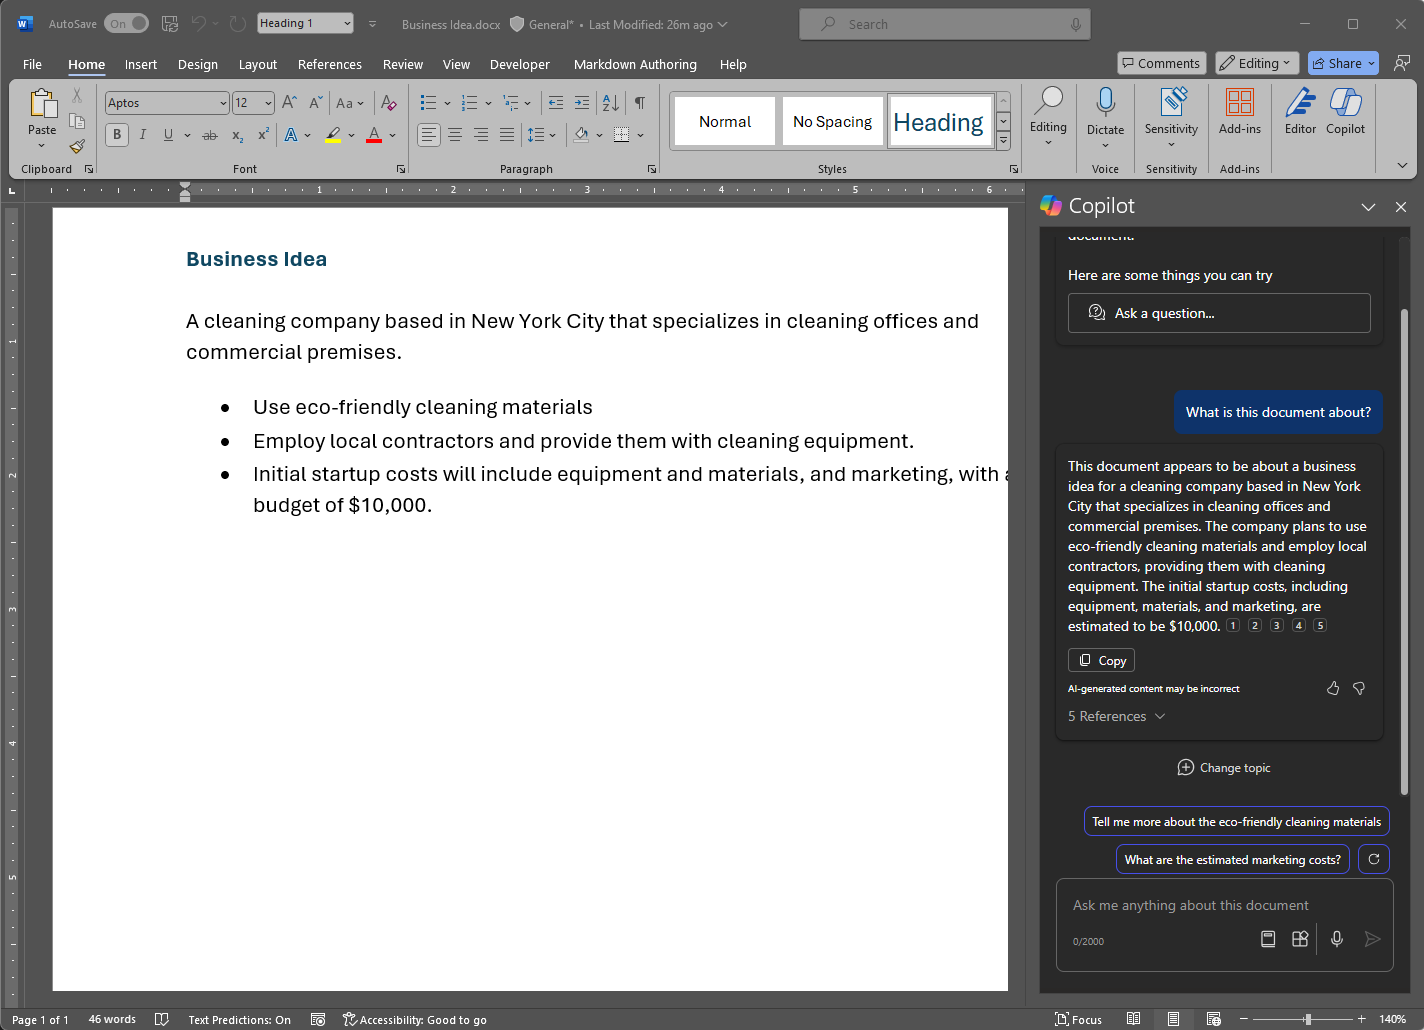
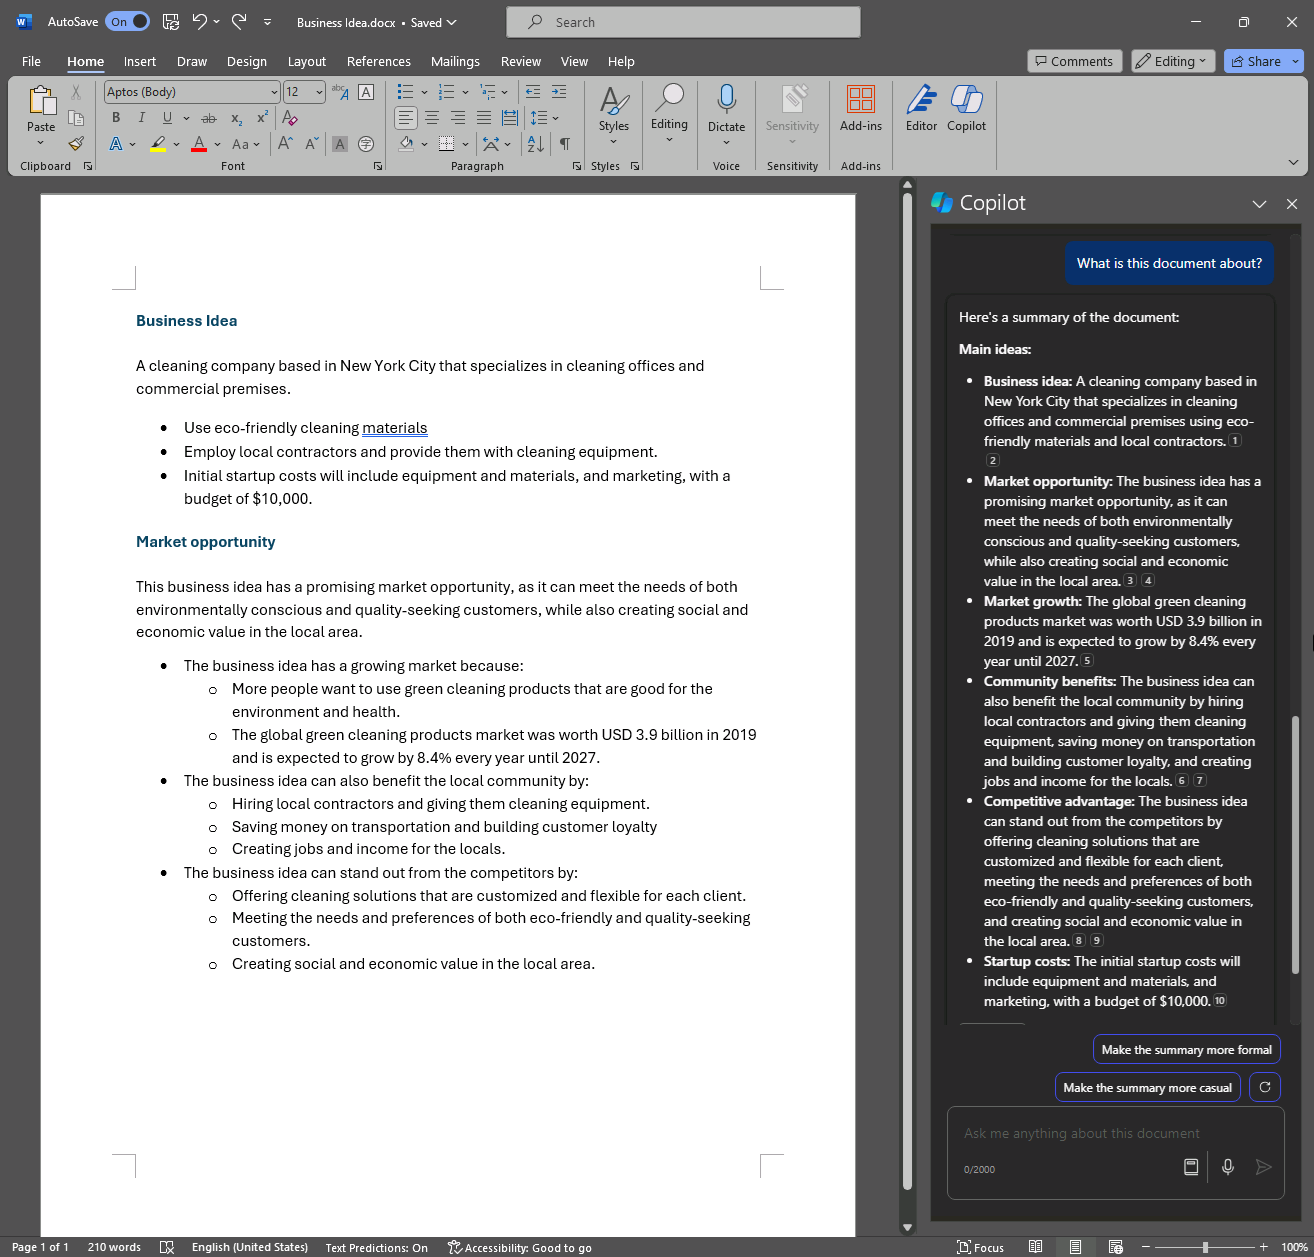
Test fixes

diff --git a/Instructions/Labs/12b-m365-copilot.md b/Instructions/Labs/12b-m365-copilot.md
@@ -14,8 +14,8 @@ This exercise should take approximately **40** minutes to complete.
 
 To start your exploration of generative AI, let's use Copilot for Word to examine an existing document and extract some insights from it.
 
-1. In Microsoft Edge, open the document [Business Idea.docx](https://github.com/MicrosoftLearning/mslearn-ai-fundamentals/raw/main/data/generative-ai/Business%20Idea.docx) from `https://github.com/MicrosoftLearning/mslearn-ai-fundamentals/raw/main/data/generative-ai/Business%20Idea.docx`. Then, when the document opens in Edge, select **Download** to save a copy on your PC.
-1. Navigate to where you saved the document, usually the **Downloads** folder in Windows, and drag or copy/paste **Business Idea.docx** to your OneDrive.
+1. In Microsoft Edge, open the document [Business Idea M365.docx](https://github.com/MicrosoftLearning/mslearn-ai-fundamentals/raw/main/data/generative-ai/Business%20Idea%20M365.docx) from `https://github.com/MicrosoftLearning/mslearn-ai-fundamentals/raw/main/data/generative-ai/Business%20Idea%20M365.docx`. Then, when the document opens in Edge, select **Download** to save a copy on your PC.
+1. Navigate to where you saved the document, usually the **Downloads** folder in Windows, and drag or copy/paste **Business Idea M365.docx** to your OneDrive.
 1. Open **Business Idea.docx** in **Microsoft Word** on your PC and review the document, which describes some high-level ideas for a cleaning business in New York City.
 1. Find and select the **Copilot** icon on the Word toolbar to open the Copilot pane, as shown here:
 
@@ -34,15 +34,6 @@ To start your exploration of generative AI, let's use Copilot for Word to examin
     > [!NOTE]
     > The specific response you receive may vary due to the nature of generative AI.
 
-1. Next, in the document, select the Copilot icon in the left margin and enter the following prompt in the popup:
-
-    ```
-    Add a new section on the potential market opportunity for this business idea.
-    ```
-
-    ![Screenshot of the Draft in Copilot feature in Word.](./media/generative-ai/copilot-draft-word.png)
-
-1. Review the response, which should provide some insights from the web that may be useful when planning a new cleaning business in New York. Keep it or give Copilot suggestions to rewrite the response.
 1. Return to the Copilot pane to ask Copilot the following question:
 
     ```
@@ -63,7 +54,7 @@ To start your exploration of generative AI, let's use Copilot for Word to examin
 
 Now that you've done some initial research, let's have Copilot help you develop a business plan for your cleaning company.
 
-1. With the **Business Idea.docx** document still open, bring up the Copilot pane and enter the following prompt:
+1. With the **Business Idea M365.docx** document still open, bring up the Copilot pane and enter the following prompt:
 
     ```
     Can you suggest a name for my cleaning business?
@@ -84,7 +75,10 @@ Now that you've done some initial research, let's have Copilot help you develop 
 
     ![Screenshot of a Word document with a Copilot-generated business plan.](./media/generative-ai/copilot-draft-business-plan-response.png)
 
-1. Close the Microsoft Word tab and return to the **Documents** folder in your OneDrive.
+1. Save the Word document and close it. 
+
+> [!NOTE]
+> If you weren't able to complete any of the steps due to time constraints or unforeseen issues, you can download a sample version of the business idea document with a business plan here: [Business Idea M365 FINAL.docx](https://github.com/MicrosoftLearning/mslearn-ai-fundamentals/raw/main/data/generative-ai/Business%20Idea%20M365%20FINAL.docx) from `https://github.com/MicrosoftLearning/mslearn-ai-fundamentals/raw/main/data/generative-ai/Business%20Idea%20M365%20FINAL.docx`.
 
 ## Use Copilot to create content for a presentation
 
@@ -94,7 +88,7 @@ With Copilot's help, you've created a draft of a business plan for the cleaning 
 
     ![Screenshot of creating a new blank presentation in PowerPoint.](./media/generative-ai/powerpoint-create-blank-presentation.png)
 
-1. Select the **Copilot button** in the **Home tab** of the ribbon, select **Create presentation from file...**, then choose **Business Idea.docx** from your OneDrive Documents folder and send the prompt to Copilot.
+1. Select the **Copilot button** in the **Home tab** of the ribbon, select **Create presentation from file...**, then choose **Business Idea M365.docx** from your OneDrive Documents folder and send the prompt to Copilot.
 
     ![Screenshot of Copilot creating a presentation from a Word document.](./media/generative-ai/copilot-powerpoint-create-presentation-from-file.png)
 
